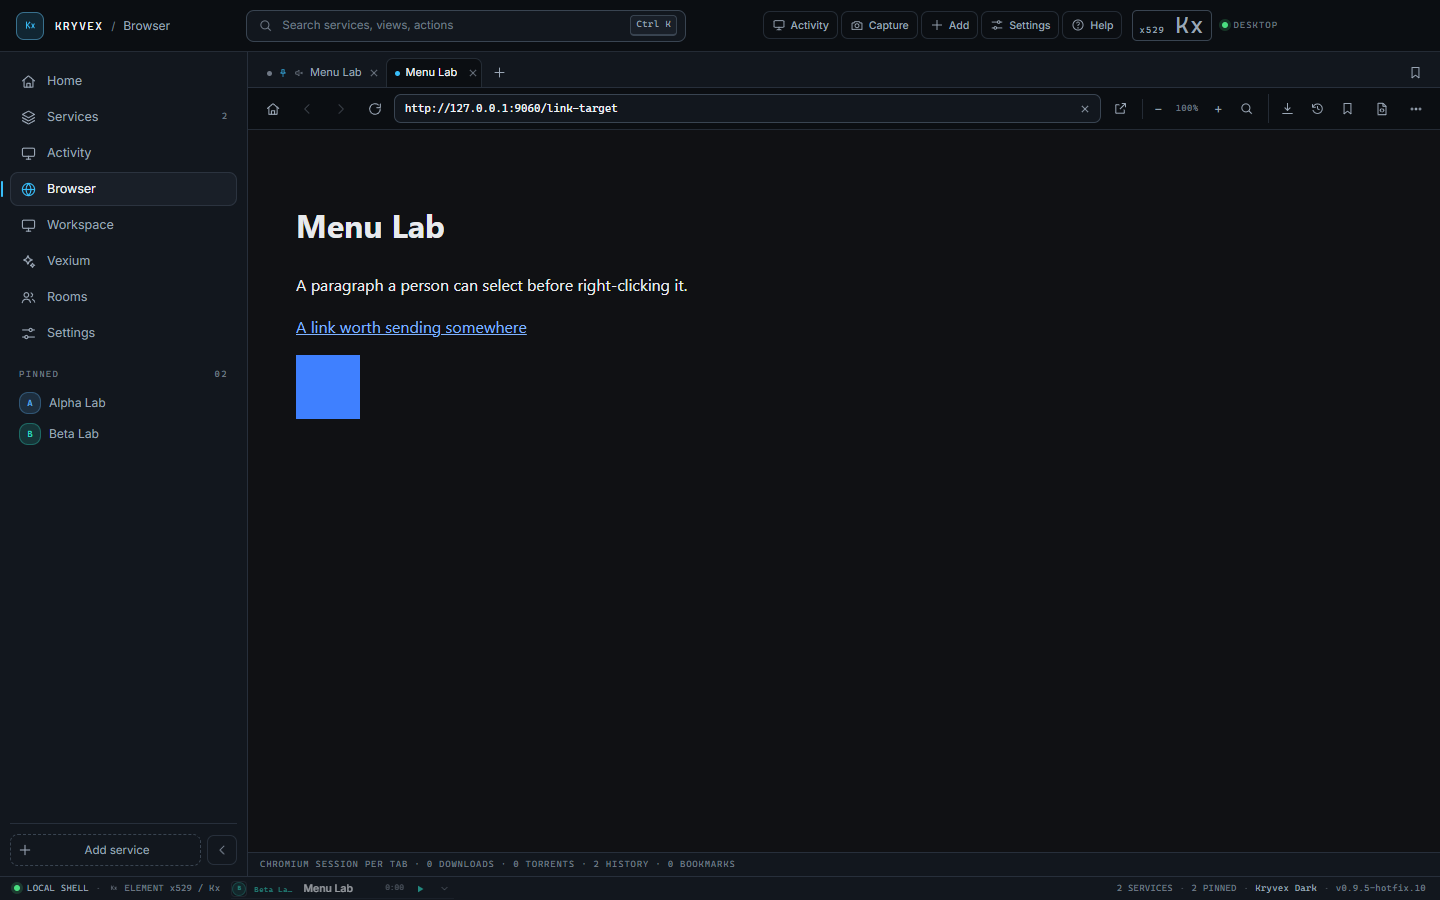
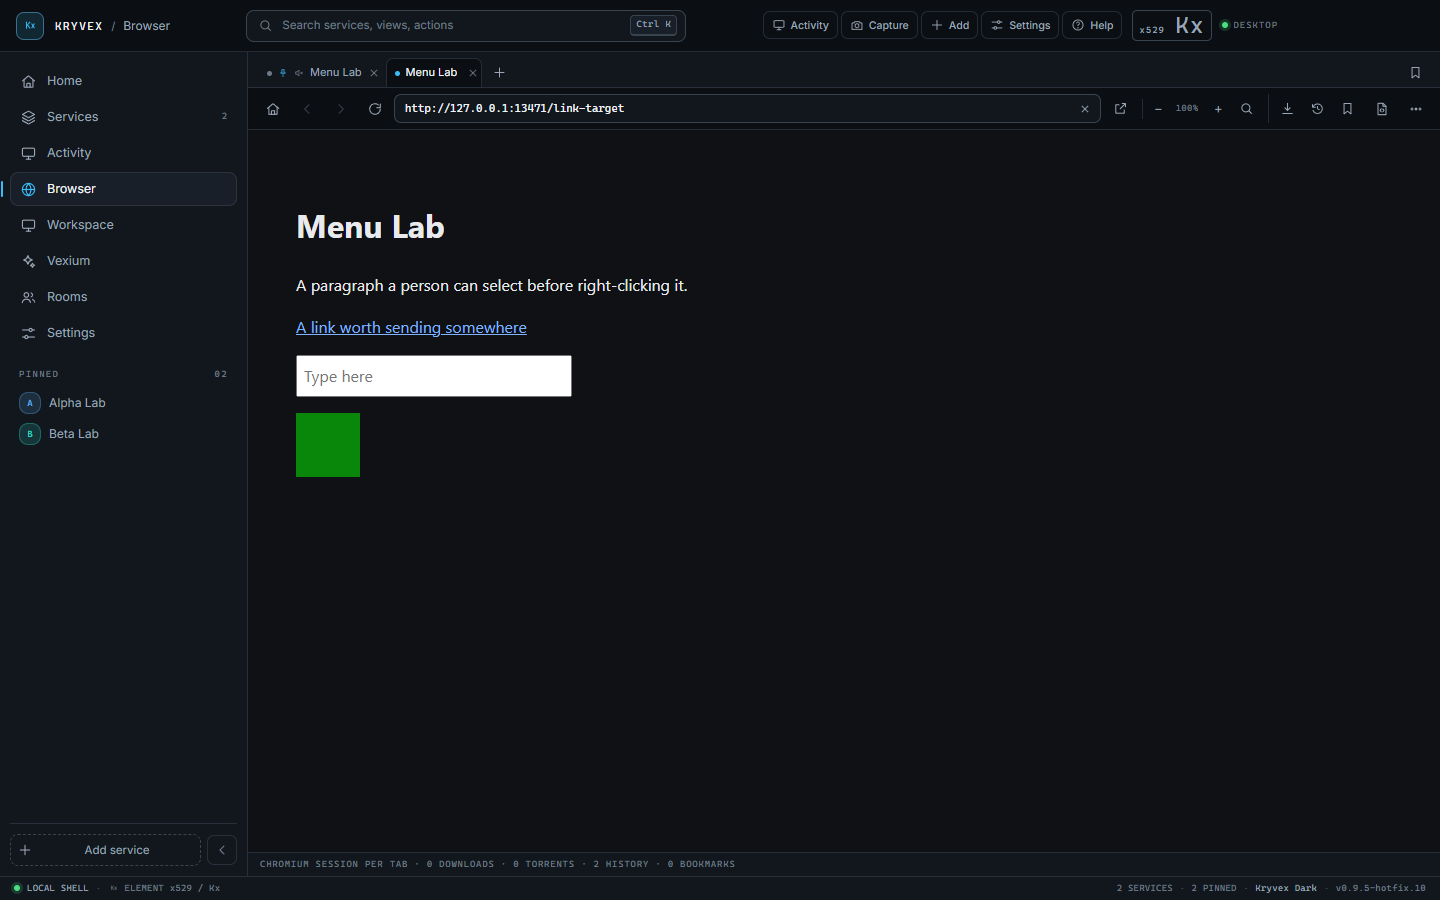
Finish the editing entries in the page menu
The menu could copy a highlighted paragraph but could not paste into anything
but a field, had no way to paste without the source formatting, offered Select
all only inside a field, and showed Copy and Cut as live even when there was
nothing highlighted to act on.

A field now carries the full set a browser gives it - Undo, Redo, Copy, Cut,
Paste, Paste and match style and Select all - with Copy and Cut greyed until
something is highlighted. Select all belongs to the document, so a highlighted
paragraph and a plain page get it too. A page that cannot be edited is still not
offered a paste, because there is nothing there for it to paste into.

Choosing Paste did nothing at first: the menu is drawn by the shell, so the
click hands focus away from the guest and the paste landed in a document with no
focused field. The guest is given focus back before the paste runs.

The live harness now drives a field and a real image: it copies a highlighted
paragraph through the menu and pastes it into the field the same way, reads the
image entries on both a service frame and a browser tab, and photographs both
menus.

Changed region(s): [[0.1875, 0.3733, 0.4062, 0.5289], [0.3438, 0.0933, 0.4375, 0.1244], [0.2188, 0.9644, 0.25, 0.9956]]

diff --git a/tests/page-menu.test.ts b/tests/page-menu.test.ts
@@ -30,6 +30,7 @@ describe('page right-click menu', () => {
   it('offers the page its own actions when nothing was clicked', () => {
     const items = pageMenuEntries(context());
     expect(ids(items)).toEqual([
+      'select-all',
       'back',
       'forward',
       'reload',
@@ -53,7 +54,7 @@ describe('page right-click menu', () => {
 
   it('adds the text entries for a selection and keeps Vexium with them', () => {
     const items = pageMenuEntries(context({ selection: '  a quoted line  ' }));
-    expect(ids(items).slice(0, 2)).toEqual(['copy', 'back']);
+    expect(ids(items).slice(0, 3)).toEqual(['copy', 'select-all', 'back']);
     expect(ids(items)).toContain('vexium-selection');
     expect(ids(items)).toContain('vexium-selection-page');
     expect(ids(items)).toContain('vexium-page');
@@ -61,15 +62,43 @@ describe('page right-click menu', () => {
 
   it('gives an editable field the edit entries without a Vexium selection', () => {
     const items = pageMenuEntries(context({ isEditable: true }));
-    expect(ids(items).slice(0, 6)).toEqual([
+    expect(ids(items).slice(0, 7)).toEqual([
       'undo',
       'redo',
       'copy',
       'cut',
       'paste',
+      'paste-match',
       'select-all',
     ]);
     expect(ids(items)).not.toContain('vexium-selection');
+  });
+
+  it('greys Copy and Cut in a field with nothing highlighted, and pastes only into a field', () => {
+    const empty = pageMenuEntries(context({ isEditable: true }));
+    expect(find(empty, 'copy')?.disabled).toBe(true);
+    expect(find(empty, 'cut')?.disabled).toBe(true);
+    expect(find(empty, 'paste')?.disabled).toBeFalsy();
+    expect(find(empty, 'paste-match')?.disabled).toBeFalsy();
+
+    const highlighted = pageMenuEntries(context({ isEditable: true, selection: 'a word' }));
+    expect(find(highlighted, 'copy')?.disabled).toBeFalsy();
+    expect(find(highlighted, 'cut')?.disabled).toBeFalsy();
+
+    // Text highlighted on a page that cannot be edited is copied, never pasted
+    // into: the menu does not offer an action the page would drop.
+    const page = ids(pageMenuEntries(context({ selection: 'a word' })));
+    expect(page).toContain('copy');
+    expect(page).not.toContain('cut');
+    expect(page).not.toContain('paste');
+    expect(page).not.toContain('paste-match');
+  });
+
+  it('offers Select all on any page, and never without one', () => {
+    expect(ids(pageMenuEntries(context()))).toContain('select-all');
+    expect(ids(pageMenuEntries(context({ selection: 'a word' })))).toContain('select-all');
+    expect(ids(pageMenuEntries(context({ isEditable: true })))).toContain('select-all');
+    expect(ids(pageMenuEntries(context({ url: '' })))).not.toContain('select-all');
   });
 
   it('offers the link entries for a clicked link, in that order', () => {

diff --git a/src/lib/page-menu.ts b/src/lib/page-menu.ts
@@ -85,11 +85,23 @@ export function pageMenuEntries(
     editing.push({ id: 'redo', label: 'Redo', hint: 'Ctrl+Y' });
   }
   if (text || context.isEditable) {
-    editing.push({ id: 'copy', label: 'Copy', hint: 'Ctrl+C' });
+    // A field with nothing highlighted has nothing to copy or cut, and an entry
+    // that would empty the clipboard is better greyed than removed: its place in
+    // the group is what tells a person where the action lives.
+    editing.push({ id: 'copy', label: 'Copy', hint: 'Ctrl+C', disabled: !text });
   }
   if (context.isEditable) {
-    editing.push({ id: 'cut', label: 'Cut', hint: 'Ctrl+X' });
+    editing.push({ id: 'cut', label: 'Cut', hint: 'Ctrl+X', disabled: !text });
     editing.push({ id: 'paste', label: 'Paste', hint: 'Ctrl+V' });
+    editing.push({
+      id: 'paste-match',
+      label: 'Paste and match style',
+      hint: 'Ctrl+Shift+V',
+    });
+  }
+  // Select all belongs to the document, not to a field: a highlighted paragraph
+  // can be selected from too, and so can a page with nothing highlighted yet.
+  if (page || context.isEditable) {
     editing.push({ id: 'select-all', label: 'Select all', hint: 'Ctrl+A' });
   }
   group(editing);

diff --git a/src/components/Webview.tsx b/src/components/Webview.tsx
@@ -39,6 +39,7 @@ export interface WebviewElement extends HTMLElement {
   cut: () => void;
   copy: () => void;
   paste: () => void;
+  pasteAndMatchStyle: () => void;
   selectAll: () => void;
   copyImageAt: (x: number, y: number) => void;
   print: (options?: Record<string, unknown>) => void;
@@ -605,7 +606,19 @@ export function Webview({
         guest(() => el.cut());
         return;
       case 'paste':
-        guest(() => el.paste());
+        // The menu is drawn by the shell, so choosing an entry hands focus away
+        // from the guest: the field has to be given it back first, or the paste
+        // lands in a document that no longer has a focused element.
+        guest(() => {
+          el.focus();
+          el.paste();
+        });
+        return;
+      case 'paste-match':
+        guest(() => {
+          el.focus();
+          el.pasteAndMatchStyle();
+        });
         return;
       case 'select-all':
         guest(() => el.selectAll());

diff --git a/src/lib/i18n-page-menu.ts b/src/lib/i18n-page-menu.ts
@@ -15,6 +15,7 @@ export const pageMenuCopy: Record<'es' | 'de' | 'fr', Record<string, string>> = 
     Redo: 'Rehacer',
     Cut: 'Cortar',
     Paste: 'Pegar',
+    'Paste and match style': 'Pegar y ajustar el estilo',
     Back: 'Atrás',
     Forward: 'Adelante',
     Reload: 'Recargar',
@@ -58,6 +59,7 @@ export const pageMenuCopy: Record<'es' | 'de' | 'fr', Record<string, string>> = 
     Redo: 'Wiederholen',
     Cut: 'Ausschneiden',
     Paste: 'Einfügen',
+    'Paste and match style': 'Einfügen und Stil anpassen',
     Back: 'Zurück',
     Forward: 'Vorwärts',
     Reload: 'Neu laden',
@@ -101,6 +103,7 @@ export const pageMenuCopy: Record<'es' | 'de' | 'fr', Record<string, string>> = 
     Redo: 'Rétablir',
     Cut: 'Couper',
     Paste: 'Coller',
+    'Paste and match style': 'Coller et adapter le style',
     Back: 'Précédent',
     Forward: 'Suivant',
     Reload: 'Recharger',

diff --git a/src/lib/i18n-tr.ts b/src/lib/i18n-tr.ts
@@ -1272,6 +1272,7 @@ export const turkishCopy: Record<string, string> = {
     'Page options': 'Sayfa seçenekleri',
     'Cut': 'Kes',
     'Paste': 'Yapıştır',
+    'Paste and match style': 'Yapıştır ve stili eşleştir',
     'Stop': 'Durdur',
     'Copy link address': 'Bağlantı adresini kopyala',
     'Open link in a new tab': 'Bağlantıyı yeni sekmede aç',
